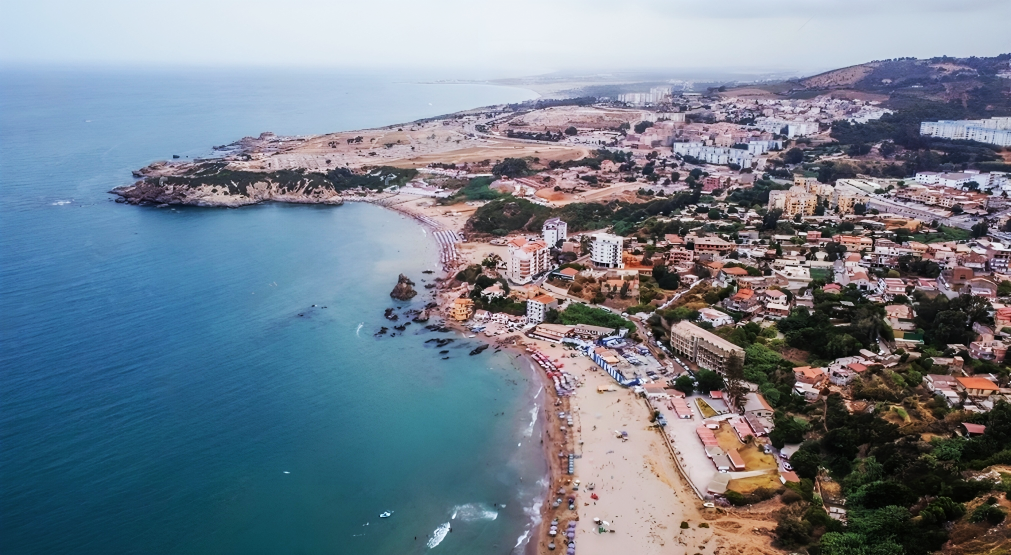
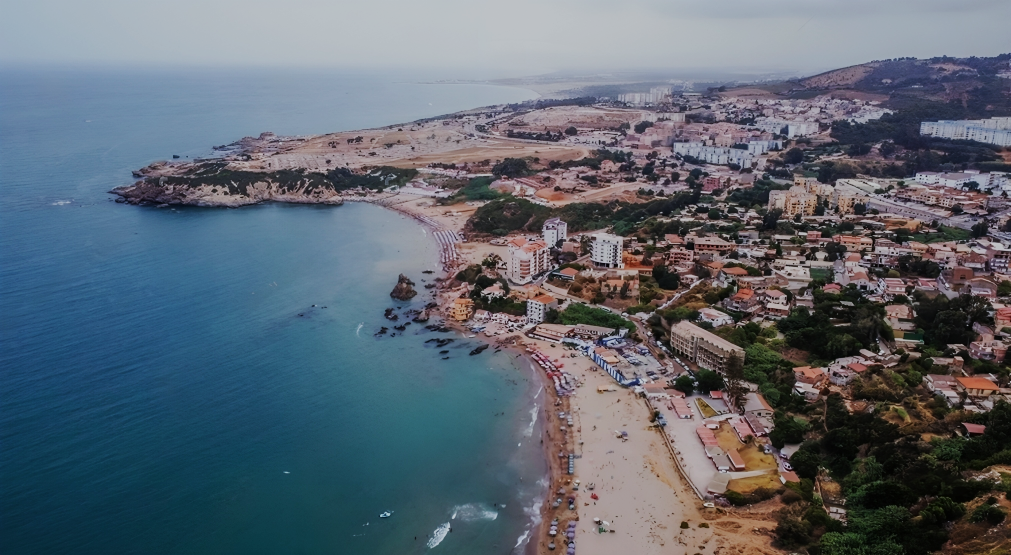
adding intoduction component commit

diff --git a/src/Components/Home/Introduction/Introduction.jsx b/src/Components/Home/Introduction/Introduction.jsx
@@ -3,10 +3,18 @@ import Boumerdes from "../../../assets/BoumerdesTwo.png";
 const Introduction = () => {
   return (
     <div>
-      <div>
+      <div className="relative">
         <div>
           {" "}
           <img src={Boumerdes} className="w-full" alt="" />
+        </div>
+        <div className="absolute top-1/2">
+          <p>
+            Lorem ipsum dolor, sit amet consectetur adipisicing elit. Aperiam
+            distinctio, quod, ducimus mollitia placeat quisquam, provident
+            maxime sit rem tempore ratione tempora. Ipsum voluptatem temporibus
+            cumque, voluptatibus totam magnam! Harum?
+          </p>
         </div>
       </div>
     </div>
